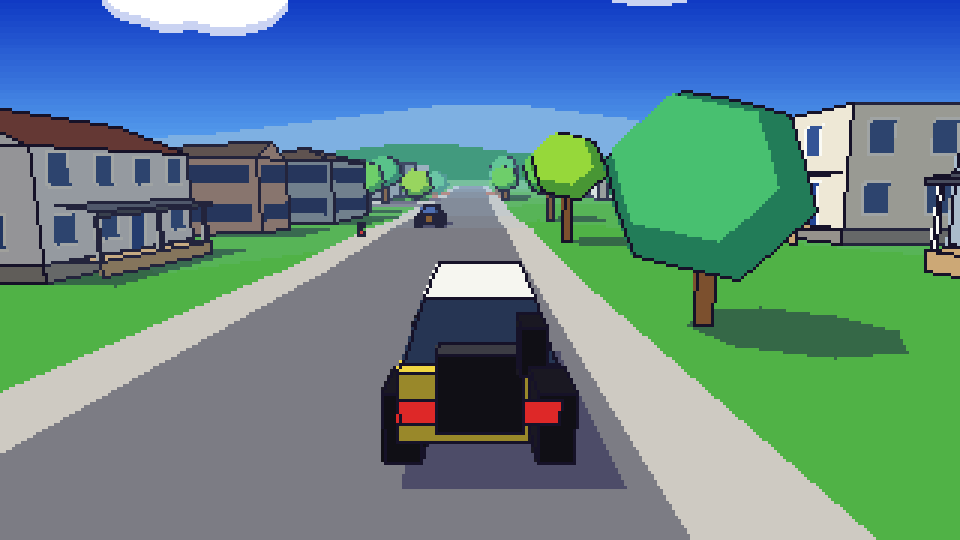
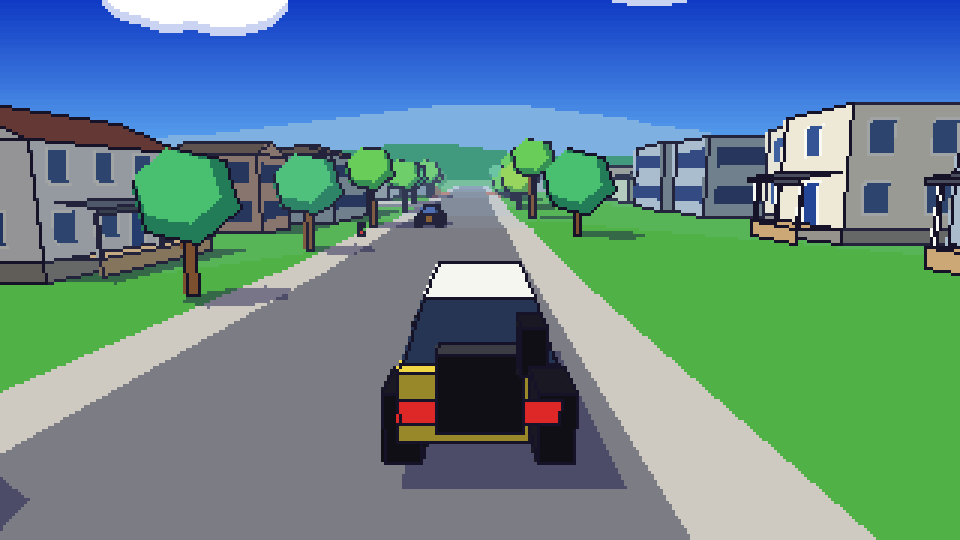
Release v0.2.1
Fixes for hills, roads and street signs (see CHANGELOG): hill occlusion
with real elevation, buildings on their highest corner, every building
off the roads, sign and signal poles off the roads, editor keeps notes.
README pictures regenerated.

diff --git a/game/__init__.py b/game/__init__.py
@@ -1,3 +1,3 @@
 """Amherst Run. The version below is the single source of truth for releases (see README: Making a release)."""
 
-__version__ = "0.2.0"
+__version__ = "0.2.1"

diff --git a/CHANGELOG.md b/CHANGELOG.md
@@ -9,6 +9,9 @@ set `__version__` in `game/__init__.py` to `X.Y.Z`, and update the link referenc
 
 ## [Unreleased]
 
+## [0.2.1] - 2026-11-17
+Fixes for hills, roads and street signs.
+
 ### Fixed
 - With real elevation on, buildings, roads and props behind a hill no longer show through it, and walls sunk into a
   slope no longer show below the grass: a per-column hill horizon is worked out each frame and anything beyond a crest
@@ -165,6 +168,7 @@ First public release.
 - The sandstone-corner bank entry in the landmark file matched every bank; it now matches by name only.
 - Buildings no longer draw through one another or through cars: each wall piece is depth-sorted on its own.
 
-[Unreleased]: https://github.com/jeremylegere-wq/amherst-run/compare/v0.2.0...HEAD
+[Unreleased]: https://github.com/jeremylegere-wq/amherst-run/compare/v0.2.1...HEAD
+[0.2.1]: https://github.com/jeremylegere-wq/amherst-run/compare/v0.2.0...v0.2.1
 [0.2.0]: https://github.com/jeremylegere-wq/amherst-run/compare/v0.1.0...v0.2.0
 [0.1.0]: https://github.com/jeremylegere-wq/amherst-run/releases/tag/v0.1.0
